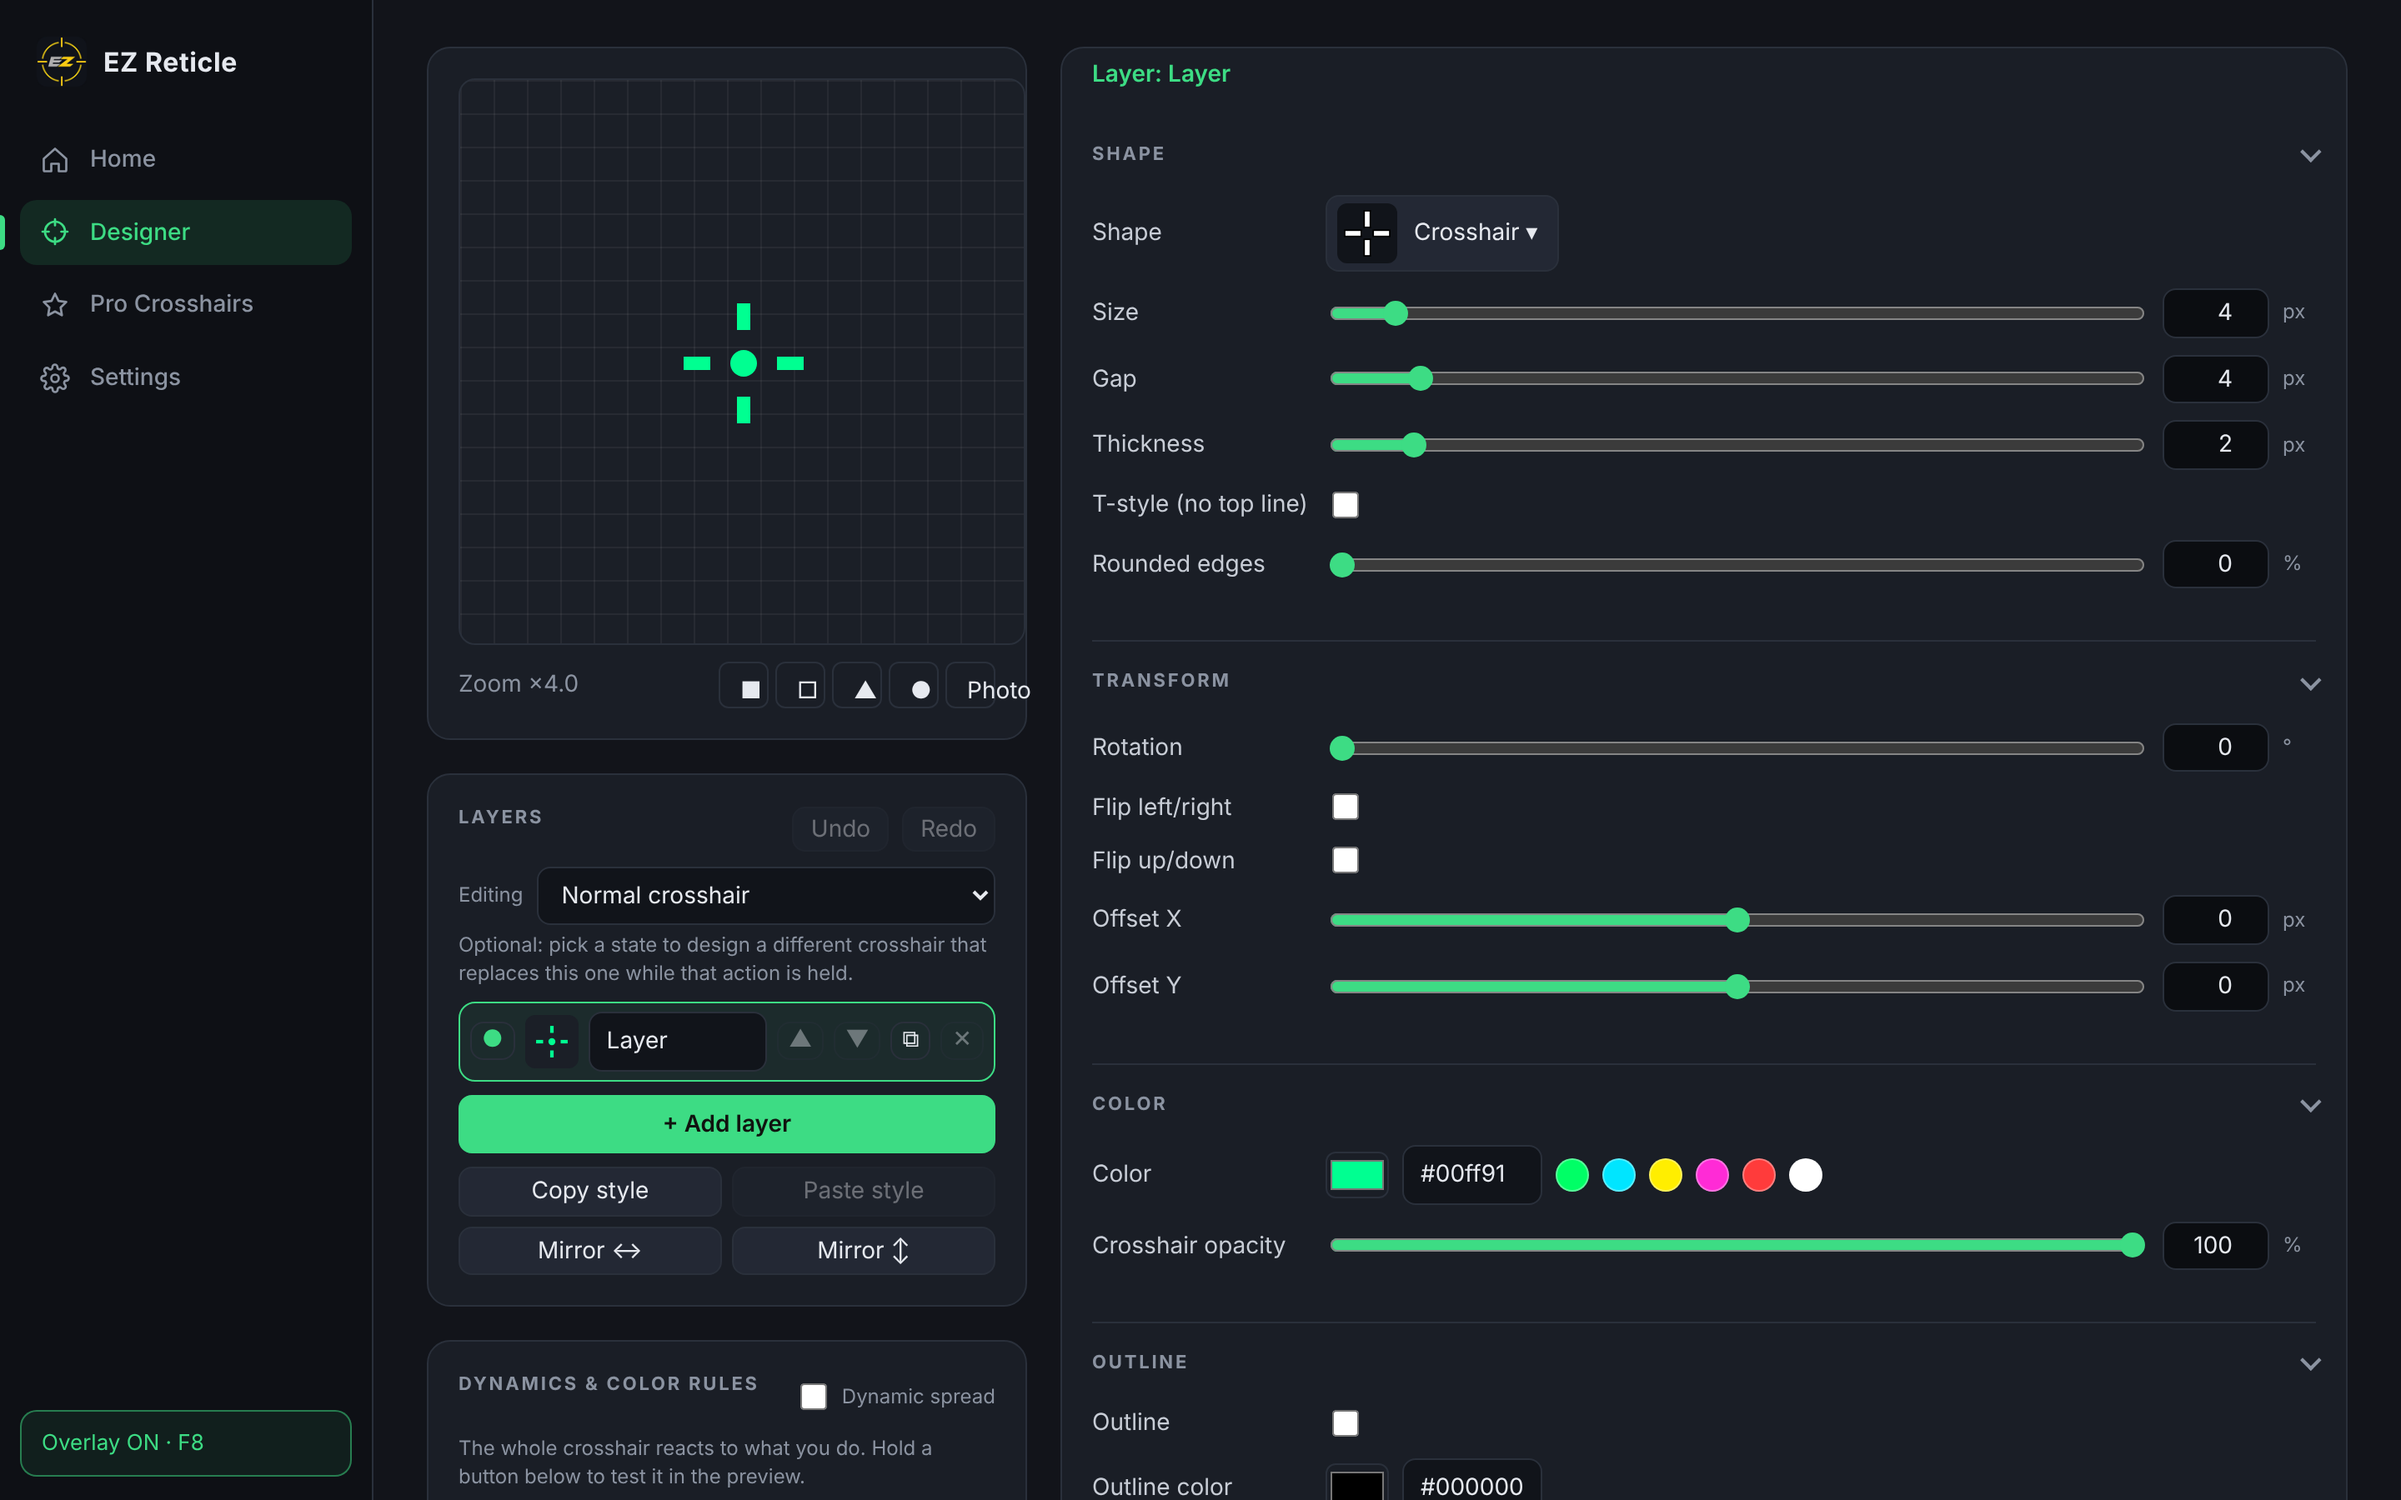
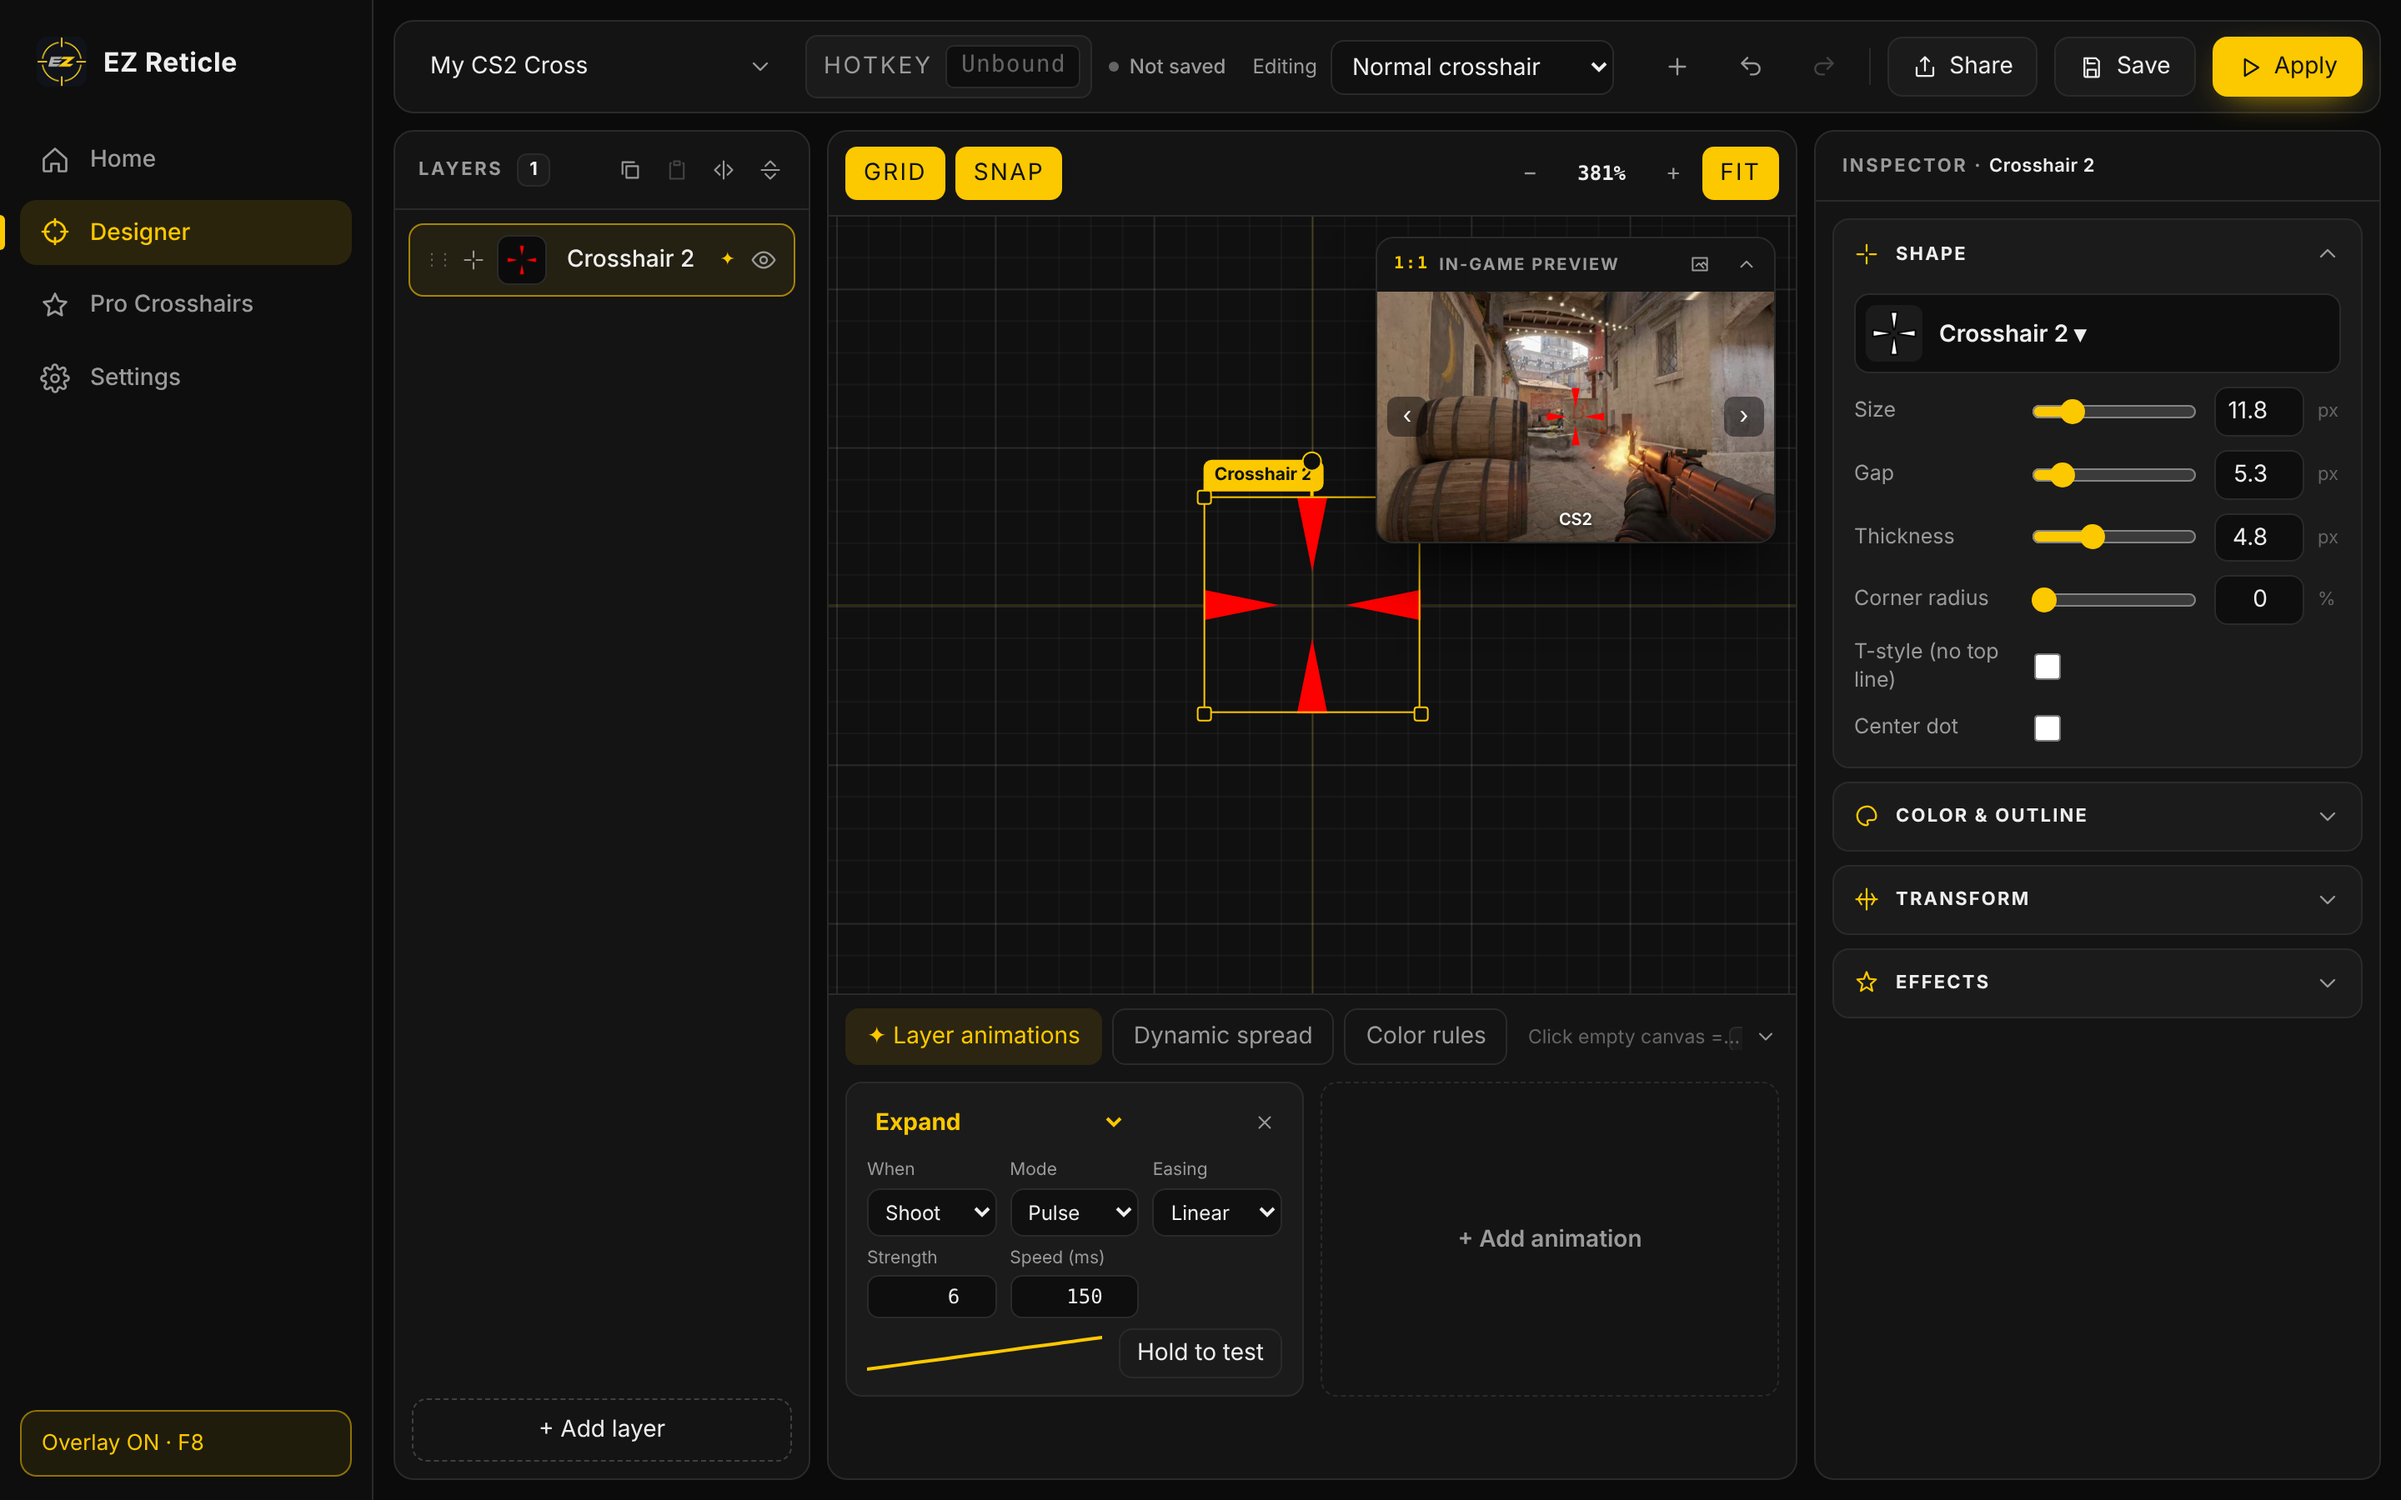
Release v1.1.0: version bump, installer workflow, new screenshots
- GitHub Actions builds the Windows installer on version tags and attaches it to the release
- Use icon.png for the installer icon (build/icon.png was missing)
- Fresh Home and Designer screenshots for the README
- Changelog and guide updated for v1.1.0

Claude-Session: https://claude.ai/code/session_01KBEFVxYGq7U7KBVYNnMQrV

diff --git a/CHANGELOG.md b/CHANGELOG.md
@@ -2,7 +2,7 @@
 
 Windows-first crosshair overlay built with Electron: a transparent, click-through, always-on-top overlay with a layered crosshair designer.
 
-## New Designer (redesign)
+## v1.1.0: New Designer
 - Three-panel layout in the EZGG matte black + yellow look: Layers on the left, a large canvas in the middle, the Inspector on the right, and a top bar with name, hotkey, saved status, New / Undo / Redo / Share / Save / Apply.
 - **Canvas editing**: click a layer to select it, drag to move, corner handles to resize, top handle to rotate (Shift = 15° steps). Grid and Snap toggles (Alt moves freely), zoom with −/+ or the mouse wheel, and Fit.
 - **Multi-select**: Shift/Ctrl-click layers in the list or on the canvas, Ctrl+A for all. Moving, rotating, hiding, duplicating, deleting and most inspector settings apply to every selected layer.
@@ -12,7 +12,9 @@ Windows-first crosshair overlay built with Electron: a transparent, click-throug
 - **Per-crosshair hotkeys**: give a saved crosshair its own hotkey from the top bar to equip it in game.
 - Saved crosshairs moved into the dropdown next to the name; the Save button saves under that name (Ctrl+S).
 - Shortcuts: Ctrl+D duplicate, Delete, H hide, G grid, F fit, Ctrl+[ / Ctrl+] reorder, arrow keys nudge.
-- Default accent is now EZGG yellow.
+- Default accent is now EZGG yellow, with neutral black and grey panels.
+- 1:1 preview backgrounds: CS2, Deadlock, grass, sky, dark, light, or your own screenshot.
+- Windows installer is built automatically by GitHub Actions for each release.
 
 ## Core
 - Transparent click-through always-on-top overlay, tray icon, global hotkeys (toggle / next / previous crosshair).

diff --git a/GUIDE.md b/GUIDE.md
@@ -108,7 +108,7 @@ npm install
 npm run dist
 ```
 
-This produces `dist/EZ-Reticle-Setup-<version>.exe` with a desktop shortcut and the app icon (`build/icon.png`, regenerate with `node tools/make-icon.js`). The installed build also enables "Start with Windows".
+This produces `dist/EZ-Reticle-Setup-<version>.exe` with a desktop shortcut and the app icon (`icon.png`). The installed build also enables "Start with Windows".
 
 ## CS2 share codes
 
@@ -153,7 +153,7 @@ New-format codes store gap, length and thickness in pixels at the code's screen 
 
 ## Branding
 
-The EZ Reticle logo is the installer/exe icon (`build/icon.png`), the window and tray icon and the header logo (`logo.png`, `logo-64.png`). Accents default to green and can be changed in Settings > Appearance.
+The EZ Reticle logo is the installer/exe icon (`icon.png`), the window and tray icon and the header logo (`logo.png`, `logo-64.png`). Accents default to EZGG yellow and can be changed in Settings > Appearance.
 
 ## App accent color
 

diff --git a/docs/GUIDE.md b/docs/GUIDE.md
@@ -108,7 +108,7 @@ npm install
 npm run dist
 ```
 
-This produces `dist/EZ-Reticle-Setup-<version>.exe` with a desktop shortcut and the app icon (`build/icon.png`, regenerate with `node tools/make-icon.js`). The installed build also enables "Start with Windows".
+This produces `dist/EZ-Reticle-Setup-<version>.exe` with a desktop shortcut and the app icon (`icon.png`). The installed build also enables "Start with Windows".
 
 ## CS2 share codes
 
@@ -153,7 +153,7 @@ New-format codes store gap, length and thickness in pixels at the code's screen 
 
 ## Branding
 
-The EZ Reticle logo is the installer/exe icon (`build/icon.png`), the window and tray icon and the header logo (`logo.png`, `logo-64.png`). Accents default to green and can be changed in Settings > Appearance.
+The EZ Reticle logo is the installer/exe icon (`icon.png`), the window and tray icon and the header logo (`logo.png`, `logo-64.png`). Accents default to EZGG yellow and can be changed in Settings > Appearance.
 
 ## App accent color
 
